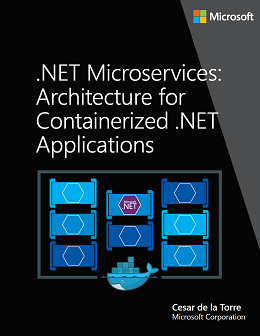
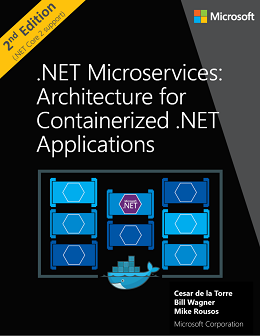
Updates on README pointing to the new 2nd Edition of the Microservices eBook updated to .NET Core 2.0 "wave"

diff --git a/README.md b/README.md
@@ -1,25 +1,26 @@
 # eShopOnContainers - Microservices Architecture and Containers based Reference Application (**BETA state** - Visual Studio 2017 and CLI environments compatible)
 Sample .NET Core reference application, powered by Microsoft, based on a simplified microservices architecture and Docker containers. <p>
-**Note Visual Studio 2017 version required**: This is important as of Oct. 11th 2017. For working with Docker and docker-compose files (needed with eShopOnContainers), do not migrate to VS 2017 15.4 as it has a bug when using TAGs in the docker-compose files. 
-Please, either use VS 2017 15.35 or VS 2017 15.5 Preview 1 (bug is fixed here) or later. 
+**Note Visual Studio 2017 version required**: This is important as of November 2017. For working with Docker and docker-compose files (needed with eShopOnContainers), do not migrate to VS 2017 15.4 as it has a bug when using TAGs in the docker-compose files. 
+Please, either use VS 2017 15.35 or VS 2017 15.5 Preview (bug is fixed here) or later. 
 VS Preview installs next to your stable Visual Studio IDE, allowing you to use either independently.
 Download of Preview here: https://www.visualstudio.com/vs/preview/
 
 **Note for Pull Requests**: We accept pull request from the community. When doing it, please do it onto the DEV branch which is the consolidated work-in-progress branch. Do not request it onto Master, if possible.
 
-## Moving to .NET Core 2.0 "wave"
-NOTE: During August/September 2017 we'll be moving the solution to .NET Core "wave". Not just compilation but also new recommended code in EF Core 2.0, ASP.NET Core 2.0, and other new related versions.
+## Updated for .NET Core 2.0 "wave" of technologies
+NOTE: We have migrated the whole solution to .NET Core 2.0 "wave". Not just compilation but also new recommended code in EF Core 2.0, ASP.NET Core 2.0, and other new related versions.
+For a list on the new .NET Core 2.0 related implemented features, see this [blog post](https://blogs.msdn.microsoft.com/dotnet/2017/08/02/microservices-and-docker-containers-architecture-patterns-and-development-guidance/).
 
 >**PLEASE** Read our [branch guide](./branch-guide.md) to know about our branching policy
 
 > ### DISCLAIMER
-> **IMPORTANT:** The current state of this sample application is **BETA**, consider it version 0.1, a foundational version. Therefore, many areas could be improved and change significantly while refactoring current code and implementing new features. Feedback with improvements and pull requests from the community will be highly appreciated and accepted.
+> **IMPORTANT:** The current state of this sample application is **BETA**, because we are constantly evolving towards new released technologies. Therefore, many areas could be improved and change significantly while refactoring current code and implementing new features. Feedback with improvements and pull requests from the community will be highly appreciated and accepted.
 >
 > This reference application proposes a simplified microservice oriented architecture implementation to introduce technologies like .NET Core with Docker containers through a comprehensive application. The chosen domain is an eShop/eCommerce but simply because it is a well-know domain by most people/developers.
 However, this sample application should not be considered as an "eCommerce reference model", at all. The implemented business domain might not be ideal from an eCommerce business point of view. It is neither trying to solve all the problems in a large, scalable and mission-critical distributed system. It is just a bootstrap for developers to easily get started in the world of Docker containers and microservices with .NET Core.
-> <p>For example, the next step (still not covered in eShopOnContainers) after understanding Docker containers and microservices development with .NET Core, is to select a microservice cluster/orchestrator like Docker Swarm, Kubernetes or DC/OS (in Azure Container Service) or Azure Service Fabric which in most of the cases will require additional partial changes to your application's configuration (although the present architecture should work on most orchestrators with small changes).
-> Additional steps would be to move your databases to HA cloud services, or to implement your EventBus with Azure Service Bus or any other production ready Service Bus in the market.
-> <p> In the future we might fork this project and make multiple versions targeting specific microservice cluster/orchestrators plus using additional cloud infrastructure. <p>
+> <p>For example, the next step after running the solution in the local dev PC and understanding Docker containers and microservices development with .NET Core, is to select a microservice cluster/orchestrator like Kubernetes in Azure or Azure Service Fabric, both environments tested and supported by this solution.
+> Additional steps would be to move your databases to HA cloud services (like Azure SQL Database), or to implement your EventBus with Azure Service Bus or any other production ready Service Bus in the market.
+> <p> 
 > <img src="img/exploring-to-production-ready.png">
 > Read the planned <a href='https://github.com/dotnet/eShopOnContainers/wiki/01.-Roadmap-and-Milestones-for-future-releases'>Roadmap and Milestones for future releases of eShopOnContainers</a> within the Wiki for further info about possible new implementations and provide feedback at the  <a href='https://github.com/dotnet/eShopOnContainers/issues'>ISSUES section</a> if you'd like to see any specific scenario implemented or improved. Also, feel free to discuss on any current issue.
 
@@ -59,11 +60,13 @@ You can download them and start reviewing these Guides/eBooks here:
 | Architecting & Developing | Containers Lifecycle & CI/CD | App patterns with Xamarin.Forms |
 | ------------ | ------------|  ------------|
 | <a href='https://aka.ms/microservicesebook'><img src="img/ebook_arch_dev_microservices_containers_cover.png"> </a> | <a href='https://aka.ms/dockerlifecycleebook'> <img src="img/ebook_containers_lifecycle.png"> </a> | <a href='https://aka.ms/xamarinpatternsebook'> <img src="img/xamarin-enterprise-patterns-ebook-cover-small.png"> </a> |
-| <sup> <a href='https://aka.ms/microservicesebook'>**Download** (First Edition)</a> </sup>  | <sup> <a href='https://aka.ms/dockerlifecycleebook'>**Download** (First Edition) </a>  </sup> | <sup> <a href='https://aka.ms/xamarinpatternsebook'>**Download** (First Edition) </a>  </sup> |
+| <sup> <a href='https://aka.ms/microservicesebook'>**Download .PDF** (2nd Edition)</a> </sup>  | <sup> <a href='https://aka.ms/dockerlifecycleebook'>**Download** (First Edition) </a>  </sup> | <sup> <a href='https://aka.ms/xamarinpatternsebook'>**Download** (First Edition) </a>  </sup> |
+
+Download in other formats (**eReaders** like **MOBI**, **EPUB**) and other eBooks at the [.NET Architecture center](dot.net/architecture).
 
 Send feedback to [dotnet-architecture-ebooks-feedback@service.microsoft.com](dotnet-architecture-ebooks-feedback@service.microsoft.com)
-<p>
-However, we encourage to download and review the "Architecting & Developing eBook" because the architectural styles and architectural patterns and technologies explained in the guidance are using this reference application when explaining many pattern implementations, so you'll understand much better the context, design and decisions taken in the current architecture and internal designs.
+
+However, we encourage to download and review the [Architecting and Developing Microservices eBook](https://aka.ms/microservicesebook) because the architectural styles and architectural patterns and technologies explained in the guidance are using this reference application when explaining many pattern implementations, so you'll understand much better the context, design and decisions taken in the current architecture and internal designs.
 
 ## Overview of the application code
 In this repo you can find a sample reference application that will help you to understand how to implement a microservice architecture based application using <b>.NET Core</b> and <b>Docker</b>.
@@ -82,7 +85,7 @@ Finally, those microservices are consumed by multiple client web and mobile apps
 <b>*MVC Application (ASP.NET Core)*</b>: It's an MVC application where you can find interesting scenarios on how to consume HTTP-based microservices from C# running in the server side, as it is a typical ASP.NET Core MVC application. Since it is a server-side application, access to other containers/microservices is done within the internal Docker Host network with its internal name resolution.
 <img src="img/eshop-webmvc-app-screenshot.png">
 <br>
-<b>*SPA (Single Page Application)*</b>: Providing similar "eShop business functionality" but developed with Angular 2, Typescript and slightly using ASP.NET Core MVC. This is another approach for client web applications to be used when you want to have a more modern client behavior which is not behaving with the typical browser round-trip on every action but behaving like a Single-Page-Application which is more similar to a desktop app usage experience. The consumption of the HTTP-based microservices is done from TypeScript/JavaScript in the client browser, so the client calls to the microservices come from out of the Docker Host internal network (Like from your network or even from the Internet).
+<b>*SPA (Single Page Application)*</b>: Providing similar "eShop business functionality" but developed with Angular, Typescript and slightly using ASP.NET Core MVC. This is another approach for client web applications to be used when you want to have a more modern client behavior which is not behaving with the typical browser round-trip on every action but behaving like a Single-Page-Application which is more similar to a desktop app usage experience. The consumption of the HTTP-based microservices is done from TypeScript/JavaScript in the client browser, so the client calls to the microservices come from out of the Docker Host internal network (Like from your network or even from the Internet).
 <img src="img/eshop-webspa-app-screenshot.png">
 <br>
 <b>*Xamarin Mobile App (For iOS, Android and Windows/UWP)*</b>: It is a client mobile app supporting the most common mobile OS platforms (iOS, Android and Windows/UWP). In this case, the consumption of the microservices is done from C# but running on the client devices, so out of the Docker Host internal network (Like from your network or even the Internet).
@@ -99,12 +102,11 @@ For those who prefer the CLI on Windows, using dotnet CLI, docker CLI and VS Cod
 https://github.com/dotnet/eShopOnContainers/wiki/03.-Setting-the-eShopOnContainers-solution-up-in-a-Windows-CLI-environment-(dotnet-CLI,-Docker-CLI-and-VS-Code)
 
 ### CLI and Mac based
-For those who prefer the CLI on a Mac, using dotnet CLI, docker CLI and VS Code for Mac
-(Instructions still TBD, but similar to Windows CLI):
-https://github.com/dotnet/eShopOnContainers/wiki/04.-Setting-eShopOnContainer-solution-up-in-a-Mac,-VS-Code-and-CLI-environment--(dotnet-CLI,-Docker-CLI-and-VS-Code)
+For those who prefer the CLI on a Mac, using dotnet CLI, docker CLI and VS Code for Mac:
+https://github.com/dotnet-architecture/eShopOnContainers/wiki/04.-Setting-eShopOnContainer-solution-up-in-a-Mac,-VS-for-Mac-or-with-CLI-environment--(dotnet-CLI,-Docker-CLI-and-VS-Code)
 
 ## Orchestrators: Kubernetes and Service Fabric
-See at the Wiki the posts on setup/instructions about how to deploy to Kubernetes or Service Fabric in Azure (although you could also deploy to any other cloud or on-premises).
+See at the [Wiki](https://github.com/dotnet-architecture/eShopOnContainers/wiki) the posts on setup/instructions about how to deploy to Kubernetes or Service Fabric in Azure (although you could also deploy to any other cloud or on-premises).
 
 ## Sending feedback and pull requests
 As mentioned, we'd appreciate your feedback, improvements and ideas.
